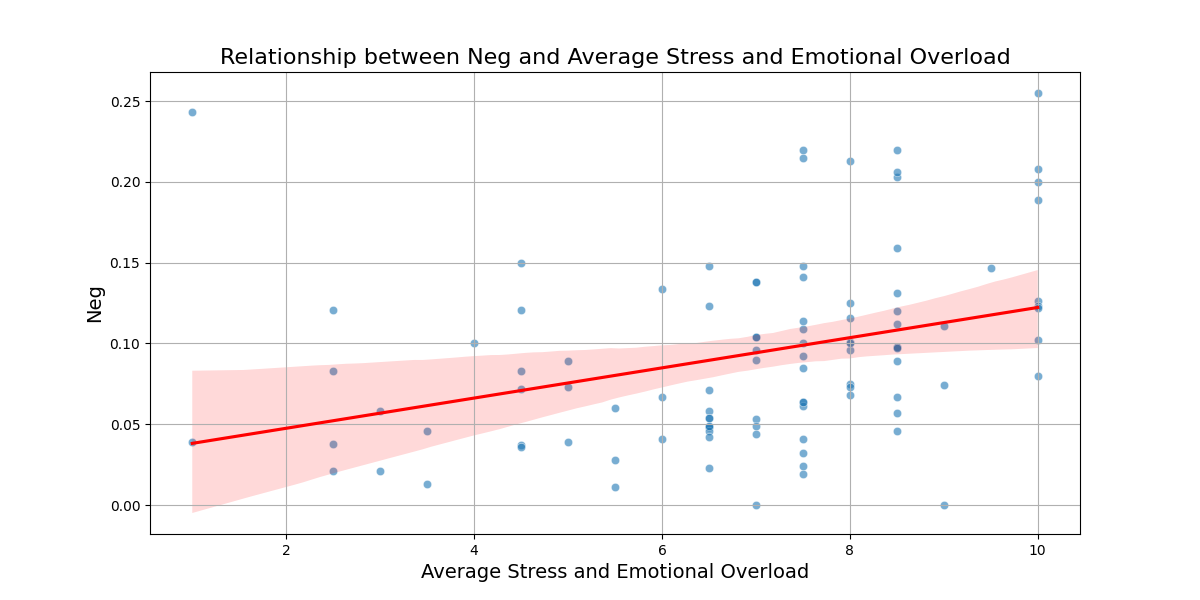
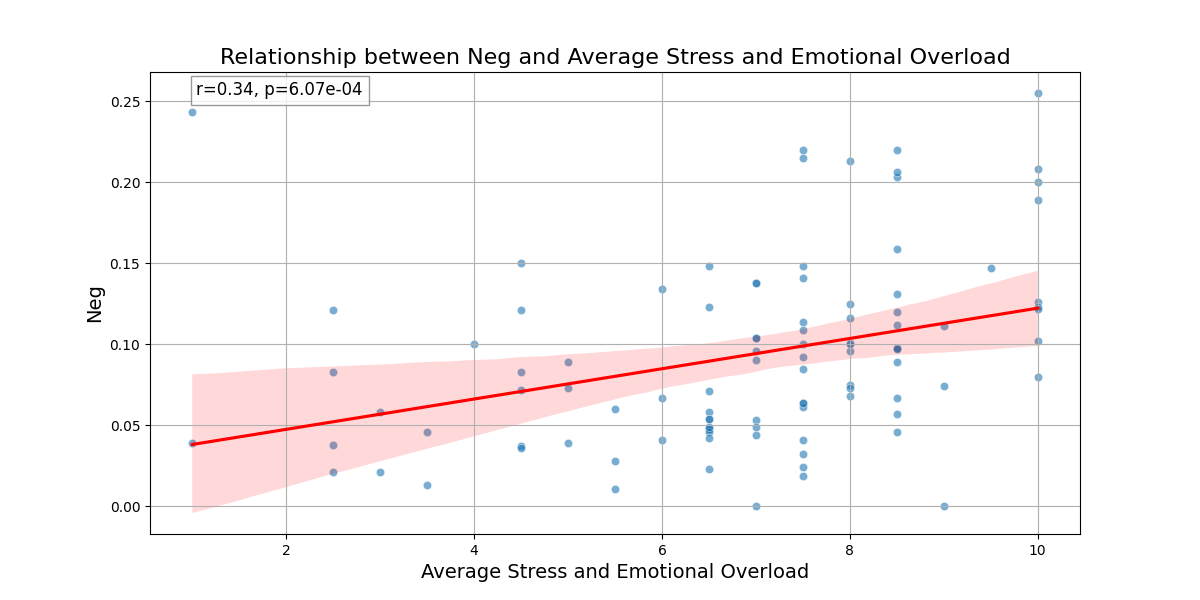
update file

diff --git a/Sentiment Analysis Vader.py b/Sentiment Analysis Vader.py
@@ -1,6 +1,7 @@
 import pandas as pd
 import matplotlib.pyplot as plt
 import seaborn as sns
+from scipy.stats import pearsonr, ttest_ind
 from nltk.sentiment import SentimentIntensityAnalyzer
 from nltk import download
 
@@ -31,12 +32,47 @@ def analyze_sentiment_vader(data):
     return data
 
 
+def calculate_statistics(data):
+    # Pearson correlation
+    pos_corr, pos_pval = pearsonr(data['Average Stress and Emotional Overload'], data['pos'])
+    neg_corr, neg_pval = pearsonr(data['Average Stress and Emotional Overload'], data['neg'])
+
+    # Format results
+    stats_text = (
+        f"Positive Sentiment Correlation: r={pos_corr:.2f}, p={pos_pval:.2e}\n"
+        f"Negative Sentiment Correlation: r={neg_corr:.2f}, p={neg_pval:.2e}"
+    )
+    return stats_text
+
+
 def plot_sentiment_vs_stress(data, sentiment_column, stress_column, output_file):
     plt.figure(figsize=(12, 6))
     sns.scatterplot(data=data, x=stress_column, y=sentiment_column, alpha=0.6)
     sns.regplot(data=data, x=stress_column, y=sentiment_column, scatter=False, color='red')
+
+    # Add Pearson correlation to the plot
+    corr, pval = pearsonr(data[stress_column], data[sentiment_column])
+    plt.text(0.05, 0.95, f"r={corr:.2f}, p={pval:.2e}", transform=plt.gca().transAxes,
+             fontsize=12, bbox=dict(facecolor='white', alpha=0.8, edgecolor='gray'))
+
     plt.title(f'Relationship between {sentiment_column.capitalize()} and {stress_column}', fontsize=16)
     plt.xlabel(stress_column, fontsize=14)
+    plt.ylabel(sentiment_column.capitalize(), fontsize=14)
+    plt.grid(True)
+    plt.savefig(output_file)
+    plt.show()
+
+
+def plot_sentiment_distribution_by_stress(data, sentiment_column, stress_column, output_file):
+    # Categorize stress levels into low, medium, high
+    bins = [0, 3, 6, 10]
+    labels = ['Low', 'Medium', 'High']
+    data['Stress_Category'] = pd.cut(data[stress_column], bins=bins, labels=labels, include_lowest=True)
+
+    plt.figure(figsize=(12, 6))
+    sns.boxplot(data=data, x='Stress_Category', y=sentiment_column, palette='coolwarm')
+    plt.title(f'{sentiment_column.capitalize()} Sentiment by Stress Levels', fontsize=16)
+    plt.xlabel('Stress Levels', fontsize=14)
     plt.ylabel(sentiment_column.capitalize(), fontsize=14)
     plt.grid(True)
     plt.savefig(output_file)
@@ -55,11 +91,21 @@ def main(file_path):
     data_with_sentiment.to_csv(output_file, index=False)
     print(f"Sentiment analysis completed. Data saved to {output_file}")
 
+    # Calculate statistics and print
+    stats_text = calculate_statistics(data_with_sentiment)
+    print(stats_text)
+
     # Plot and save relationships between sentiment and stress level
     plot_sentiment_vs_stress(data_with_sentiment, 'pos', 'Average Stress and Emotional Overload',
                              'positive_vs_stress.png')
     plot_sentiment_vs_stress(data_with_sentiment, 'neg', 'Average Stress and Emotional Overload',
                              'negative_vs_stress.png')
+
+    # Plot sentiment distribution by stress levels
+    plot_sentiment_distribution_by_stress(data_with_sentiment, 'pos', 'Average Stress and Emotional Overload',
+                                          'positive_sentiment_distribution_by_stress.png')
+    plot_sentiment_distribution_by_stress(data_with_sentiment, 'neg', 'Average Stress and Emotional Overload',
+                                          'negative_sentiment_distribution_by_stress.png')
 
 
 # Example usage
